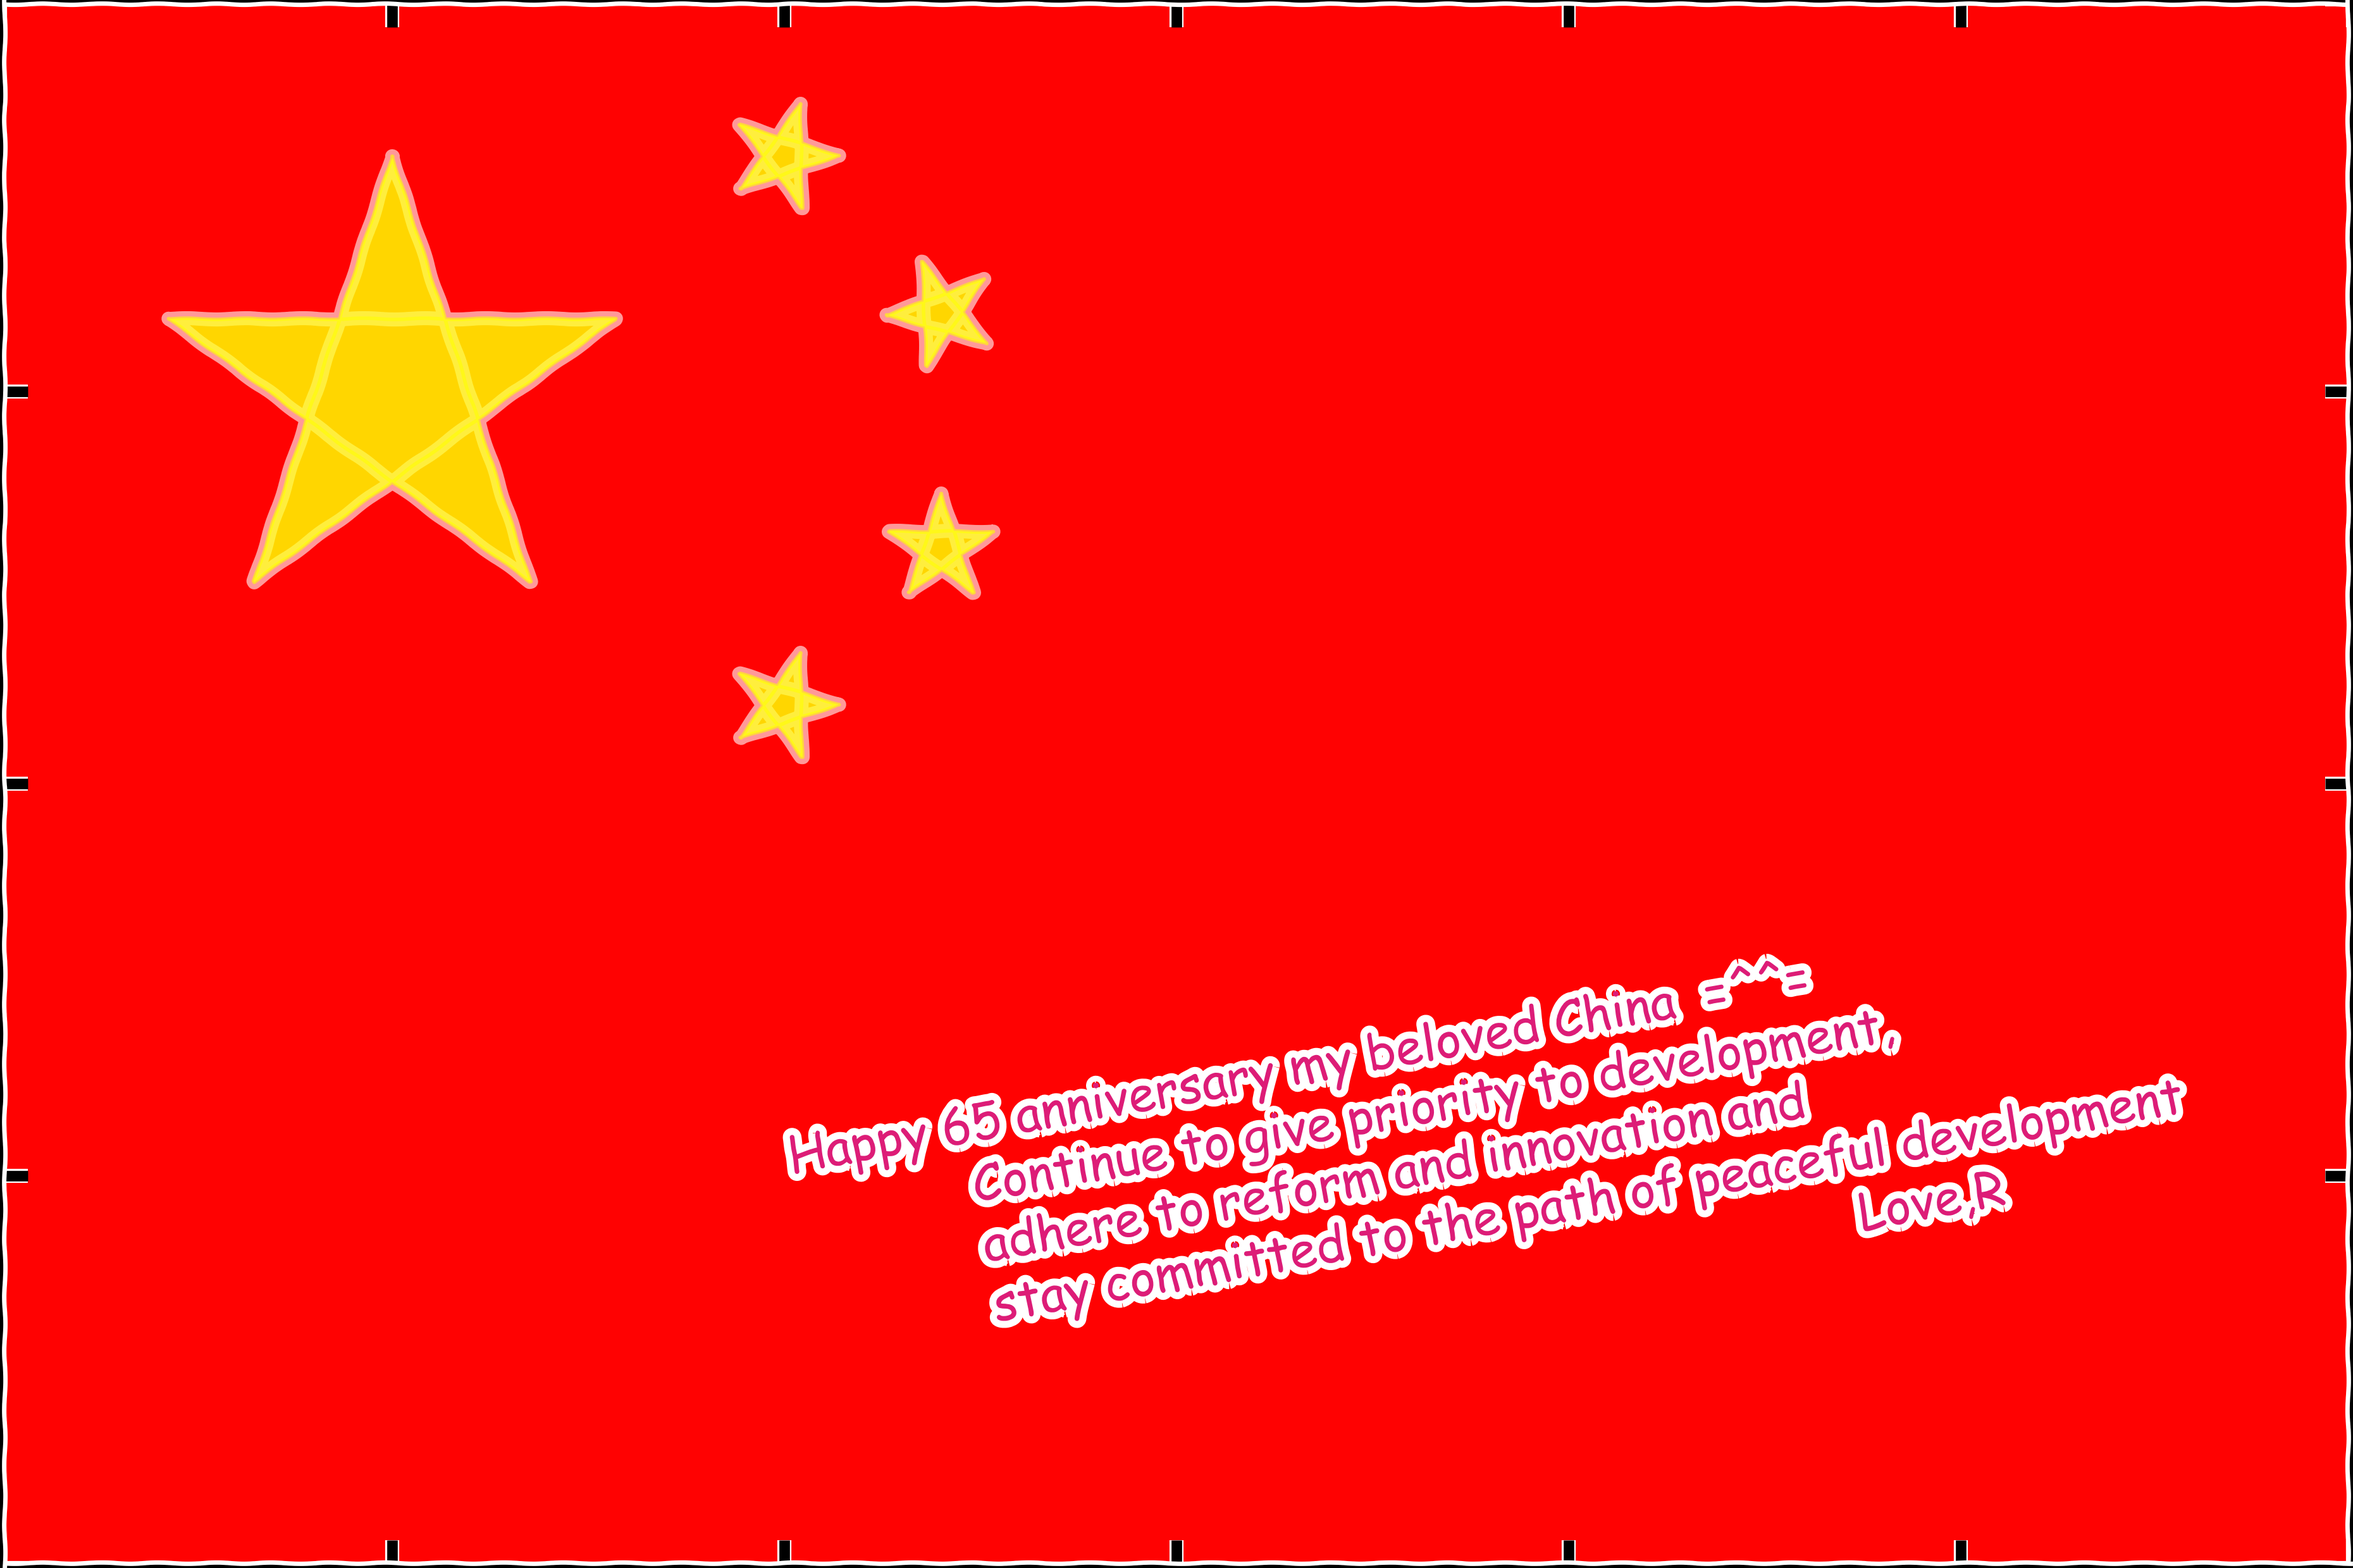
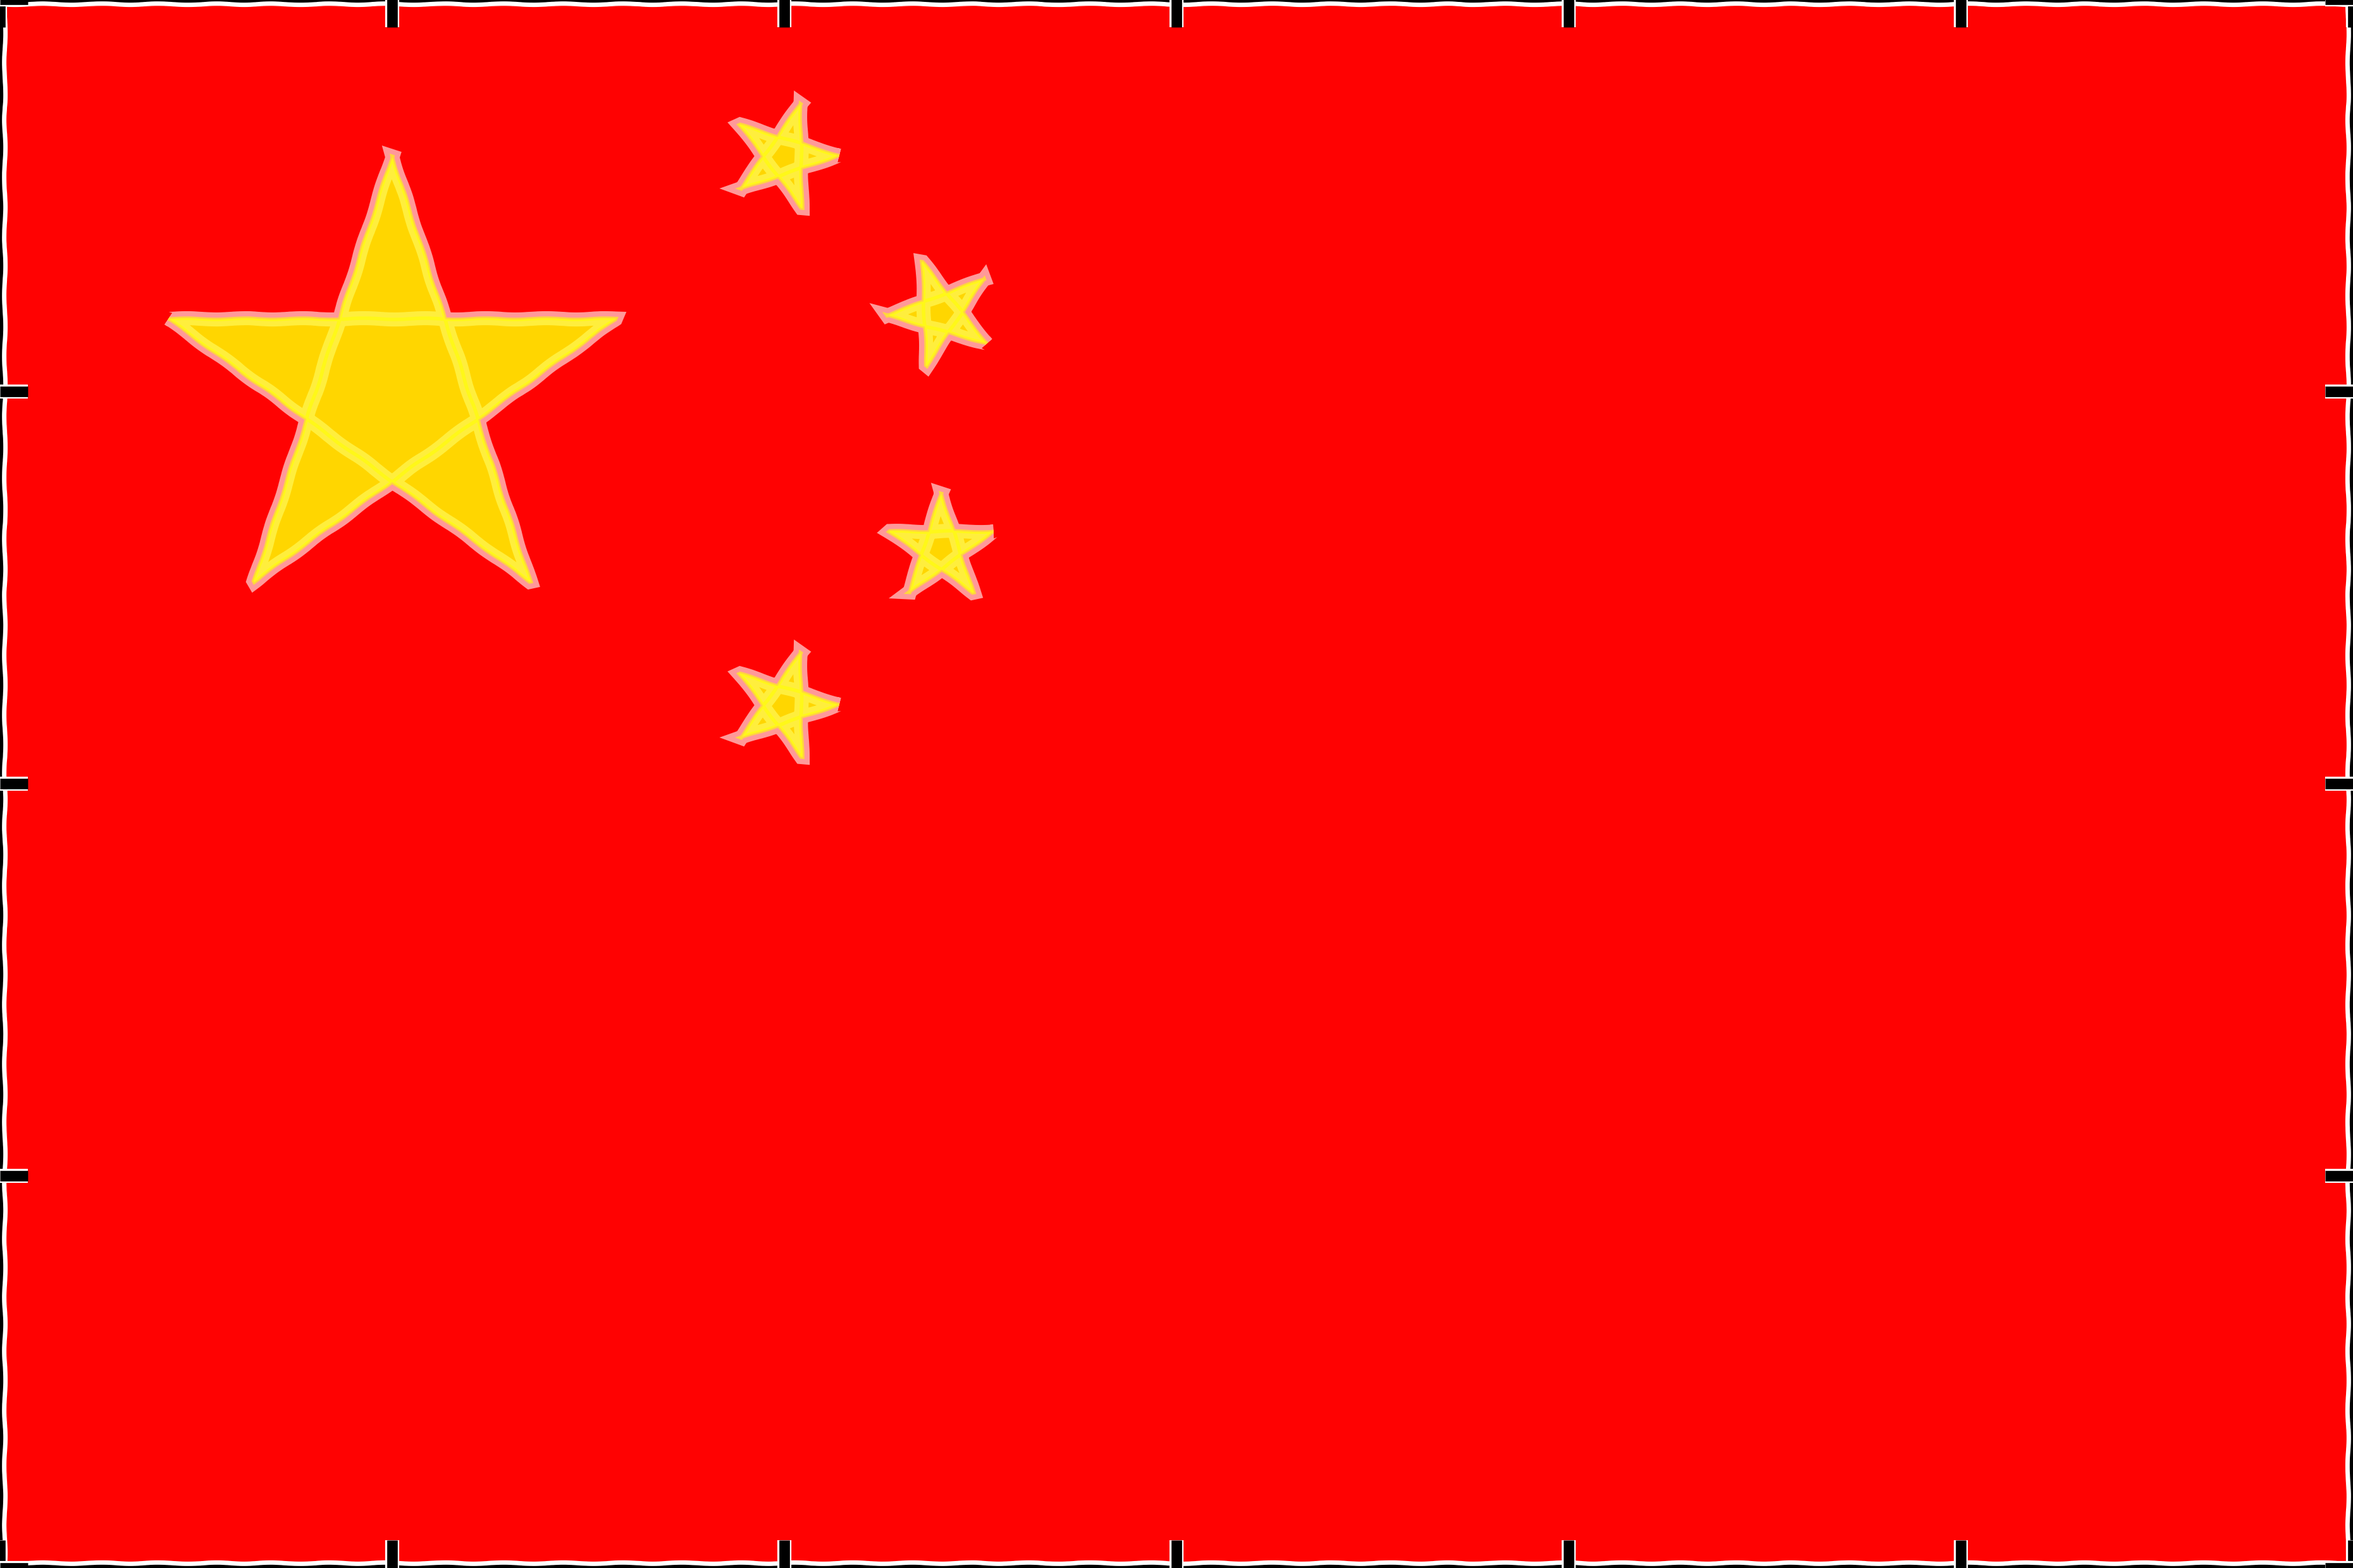
remove text

diff --git a/national_flag.py b/national_flag.py
@@ -47,6 +47,6 @@ if __name__ == '__main__':
     ax = fig.add_subplot(111)
 
     drawcanvas(ax)
-    addtext(ax)
+#    addtext(ax)
     turnoffaxis(ax, False)
     savecanvas()
